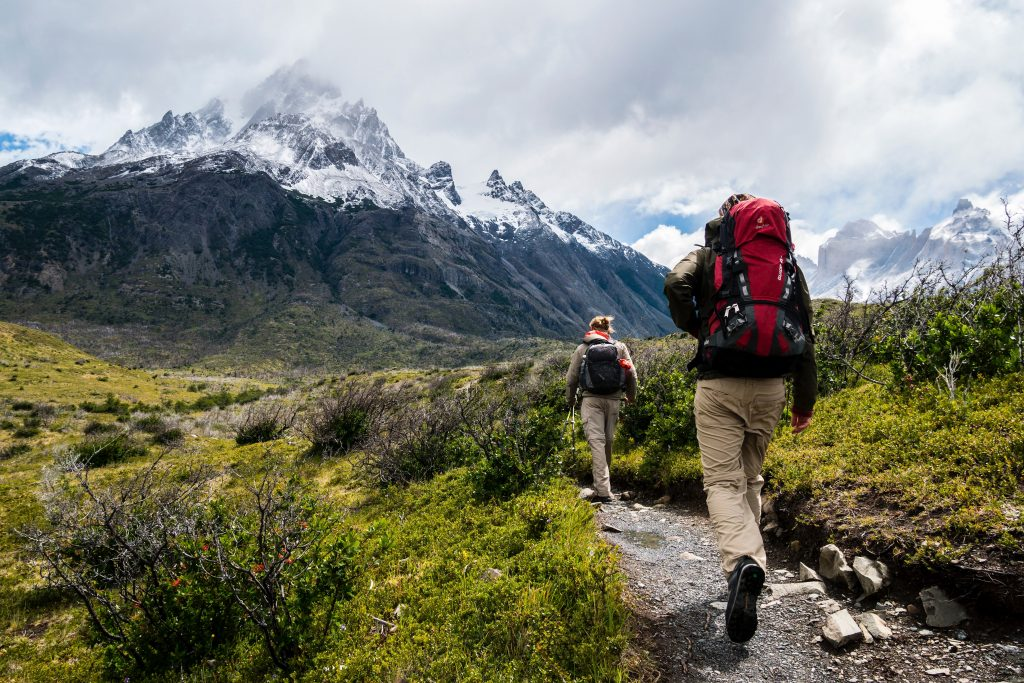
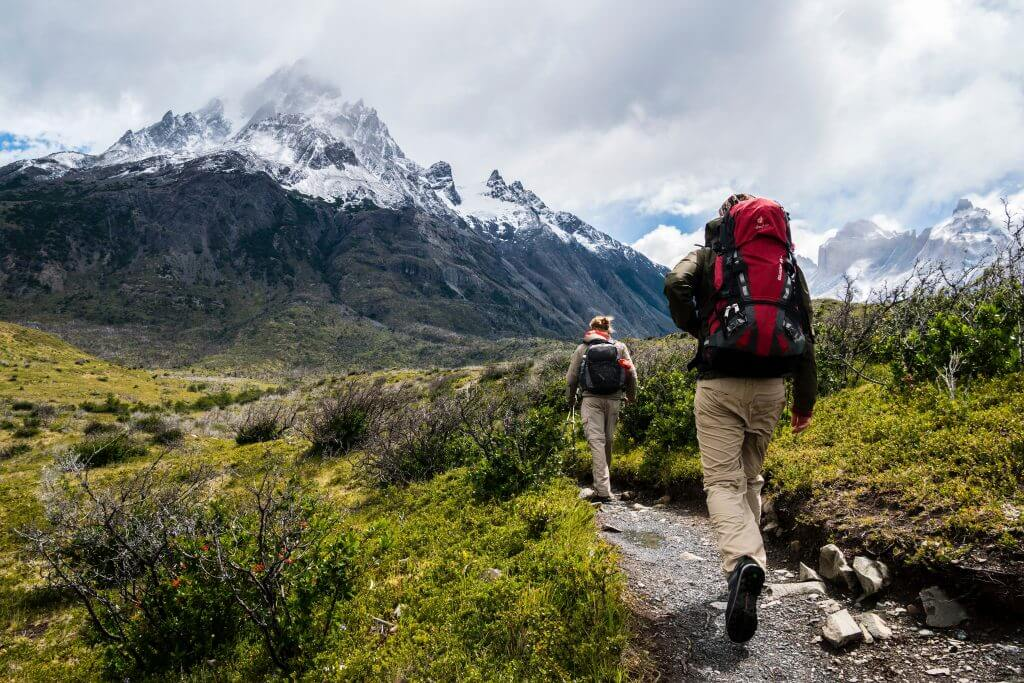
preEntrega3 - Se realiza SEO en todas las páginas y se comprime el tamaño de todas las imagenes

diff --git a/pages/nosotros.html b/pages/nosotros.html
@@ -3,6 +3,8 @@
     <head>
         <meta charset="UTF-8">
         <meta name="viewport" content="width=device-width, initial-scale=1.0">
+        <meta name="description" content="Explorá nuestras ofertas, testimonios de clientes satisfechos y nuestro compromiso con la sostenibilidad en el turismo. Somos más que una empresa de viajes; somos tu puerta de entrada a aventuras, culturas y destinos emocionantes. Unite a nosotros en esta travesía y hacé que tus viajes sean inolvidables.">
+        <meta name="keywords" content="hoy viajo yo, turismo, viaje, destinos, playa, montañas, mar, paisaje, naturaleza, lago, laguna, opiniones, asesoramiento, servicios, mar del plata, bariloche, esteros del iberá, cerro, cerro de los siete colores, historia, personas, empresa, prupuestas, beneficios, preguntas">
         <title>Hoy Viajo Yo | Nosotros</title>
         <script src="https://kit.fontawesome.com/219840d199.js" crossorigin="anonymous"></script>
         <link rel="stylesheet" href="../css/bootstrap.min.css">
@@ -41,13 +43,13 @@
                     <section data-aos="fade-right" data-aos-offset="240" data-aos-once="true">
                         <h3 class="fontCairo">¿Quiénes somos?</h3>
                         <p class="fontPalanquin">
-                            Hoy Viajo Yo! es una empresa del rubro de turismo que facilita a que todas aquellas personas que tengan ganas de realizar un viaje puedan realizarlo de manera segura y confiable, asegurándonos de que puedas disfrutar y vivir muchas experiencias de manera económica ¡y sin perderse cada detalle importante!
+                            Hoy Viajo Yo! es una empresa del rubro de turismo que facilita a que todas aquellas personas que tengan <span class="negritas">ganas de realizar un viaje</span> puedan realizarlo de manera segura y confiable, asegurándonos de que puedas <span class="negritas">disfrutar</span> y vivir muchas experiencias de manera <span class="negritas">económica</span> ¡y sin perderse cada detalle importante!
                         </p>
                     </section>
                     <section data-aos="fade-right" data-aos-delay="100" data-aos-once="true">
                         <h3 class="fontCairo">¿Qué proponemos?</h3>
                         <p class="fontPalanquin">
-                            Te proponemos una variedad de opciones en distíntos puntos de Argentina y una serie de beneficios exclusivos que no vas a encontrar en ningún otro lugar para que las experiencias que vivas sean inolvidables.
+                            Te proponemos una <span class="negritas">variedad</span> de opciones en distíntos puntos de Argentina y una serie de <span class="negritas">beneficios exclusivos</span> que no vas a encontrar en ningún otro lugar para que las experiencias que vivas sean inolvidables.
                         </p>
                     </section>
                     <section data-aos="fade-right" data-aos-delay="200" data-aos-once="true">
@@ -59,7 +61,7 @@
                     <section data-aos="fade-right" data-aos-delay="300" data-aos-once="true">
                         <h3 class="fontCairo">¿Los clientes tienen algún tipo de beneficio?</h3>
                         <p class="fontPalanquin">
-                            Todos los clientes tendrán la posibilidad de elegir nuestros servicios y descuentos exclusivos, ¡sumado a la posibilidad de financiar el viaje con hasta 12 cuotas sin interés! Si querés saber más sobre los servicios que ofrecemos, hacé <a class="linksRandoms" href="./servicios.html">click acá</a>.
+                            Todos los clientes tendrán la posibilidad de elegir nuestros servicios y descuentos exclusivos, ¡sumado a la posibilidad de financiar el viaje con hasta <span class="negritas">12 cuotas sin interés</span>! Si querés saber más sobre los servicios que ofrecemos, hacé <a class="linksRandoms" href="./servicios.html">click acá</a>.
                         </p>
                     </section>
                     <section data-aos="fade-right" data-aos-delay="400" data-aos-once="true">

diff --git a/pages/destinos.html b/pages/destinos.html
@@ -3,6 +3,8 @@
     <head>
         <meta charset="UTF-8">
         <meta name="viewport" content="width=device-width, initial-scale=1.0">
+        <meta name="description" content="En nuestra página de destinos, no solo te ofrecemos información sobre lugares, sino también consejos prácticos para tu viaje. Aprendé sobre la cultura local, la mejor época para visitar y consejos de seguridad. Estamos acá para ayudarte a planificar y disfrutar de tus aventuras al máximo.">
+        <meta name="keywords" content="hoy viajo yo, turismo, viaje, destinos, playa, montañas, mar, paisaje, naturaleza, lago, laguna, opiniones, asesoramiento, servicios, mar del plata, bariloche, esteros del iberá, cerro, cerro de los siete colores, ubicaciones, gente, ciudad, lugares, cultura, monumentos, casino, lobo marino, estatua, parque, colores, hotel, llao llao, nieve, centro, centro cívico, historia, animales, agua, medioambiente, ciervo, loro, ave">
         <title>Hoy Viajo Yo | Destinos</title>
         <script src="https://kit.fontawesome.com/219840d199.js" crossorigin="anonymous"></script>
         <link rel="stylesheet" href="../css/bootstrap.min.css">

diff --git a/pages/servicios.html b/pages/servicios.html
@@ -3,6 +3,8 @@
     <head>
         <meta charset="UTF-8">
         <meta name="viewport" content="width=device-width, initial-scale=1.0">
+        <meta name="description" content="En nuestra página de servicios turísticos, la satisfacción del cliente es nuestra prioridad. Nuestro equipo de expertos está listo para ayudarte en cada etapa de tu viaje. Desde la planificación hasta la realización, confiá en nosotros para que tus aventuras sean seguras, emocionantes y llenas de momentos memorables.">
+        <meta name="keywords" content="hoy viajo yo, turismo, viaje, destinos, playa, montañas, mar, paisaje, naturaleza, lago, laguna, opiniones, asesoramiento, servicios, mar del plata, bariloche, esteros del iberá, cerro, cerro de los siete colores, transporte, colectivo, avion, empresa, jetsmart, transito express, hoteles, hoteleria, recomendaciones, excursiones, agenda, cupones, beneficios, descuentos, restaurantes">
         <title>Hoy Viajo Yo | Servicios</title>
         <script src="https://kit.fontawesome.com/219840d199.js" crossorigin="anonymous"></script>
         <link rel="stylesheet" href="../css/bootstrap.min.css">

diff --git a/pages/contacto.html b/pages/contacto.html
@@ -3,6 +3,8 @@
     <head>
         <meta charset="UTF-8">
         <meta name="viewport" content="width=device-width, initial-scale=1.0">
+        <meta name="description" content="En nuestra página de contacto, te ofrecemos la oportunidad de conectarte con nosotros directamente. Si tenés consultas, comentarios o querés personalizar tu experiencia de viaje, este es el lugar para hacerlo. Estamos comprometidos en proporcionarte respuestas rápidas y soluciones a medida para que tu viaje sea perfecto.">
+        <meta name="keywords" content="hoy viajo yo, turismo, viaje, destinos, playa, montañas, mar, paisaje, naturaleza, lago, laguna, opiniones, asesoramiento, servicios, mar del plata, bariloche, esteros del iberá, cerro, cerro de los siete colores, motivo, queja, reporte, reserva, nombre, apellido, número, numero, mail, contacto, contactanos, detalle">
         <title>Hoy Viajo Yo | Contacto</title>
         <script src="https://kit.fontawesome.com/219840d199.js" crossorigin="anonymous"></script>
         <link rel="stylesheet" href="../css/bootstrap.min.css">

diff --git a/index.html b/index.html
@@ -3,6 +3,8 @@
     <head>
         <meta charset="UTF-8">
         <meta name="viewport" content="width=device-width, initial-scale=1.0">
+        <meta name="description" content="Planifica tus próximas vacaciones con nosotros y explora destinos turísticos impresionantes en Argentina. Encontrá consejos de viaje, ofertas exclusivas y experiencias únicas que harán que tus viajes sean memorables. ¡Preparate para vivir aventuras emocionantes y conocer nuevos lugares con nuestra guía turística confiable!">
+        <meta name="keywords" content="hoy viajo yo, turismo, viaje, destinos, playa, montañas, mar, paisaje, naturaleza, lago, laguna, opiniones, asesoramiento, servicios, mar del plata, bariloche, esteros del iberá, cerro, cerro de los siete colores">
         <title>Hoy Viajo Yo | Inicio</title>
         <script src="https://kit.fontawesome.com/219840d199.js" crossorigin="anonymous"></script>
         <link rel="stylesheet" href="./css/bootstrap.min.css">

diff --git a/css/estilos.css b/css/estilos.css
@@ -88,6 +88,10 @@
   border-bottom: 1px solid #6cb9a8;
 }
 
+.negritas {
+  font-weight: 800;
+}
+
 @media screen and (max-width: 750px) {
   .bordeLinks:hover {
     transform: scale(1);

diff --git a/scss/_utilidades.scss b/scss/_utilidades.scss
@@ -53,6 +53,9 @@
         border-bottom: 1px solid #6cb9a8;
     }
 }
+.negritas{
+    font-weight: 800;
+}
 @media screen and (max-width:750px){
     .bordeLinks{
         &:hover{
